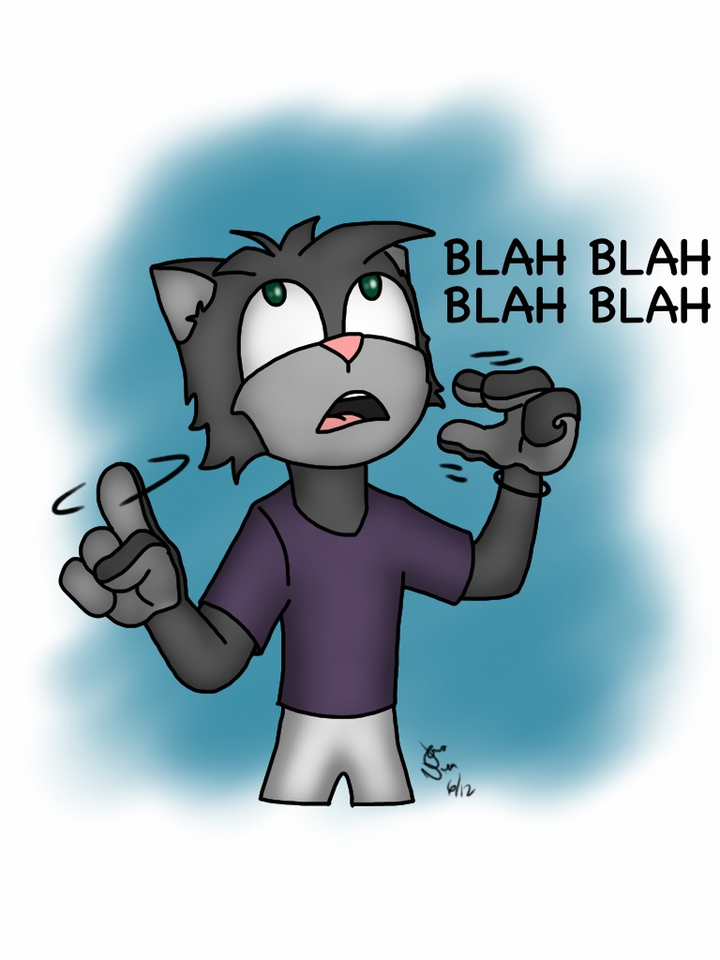
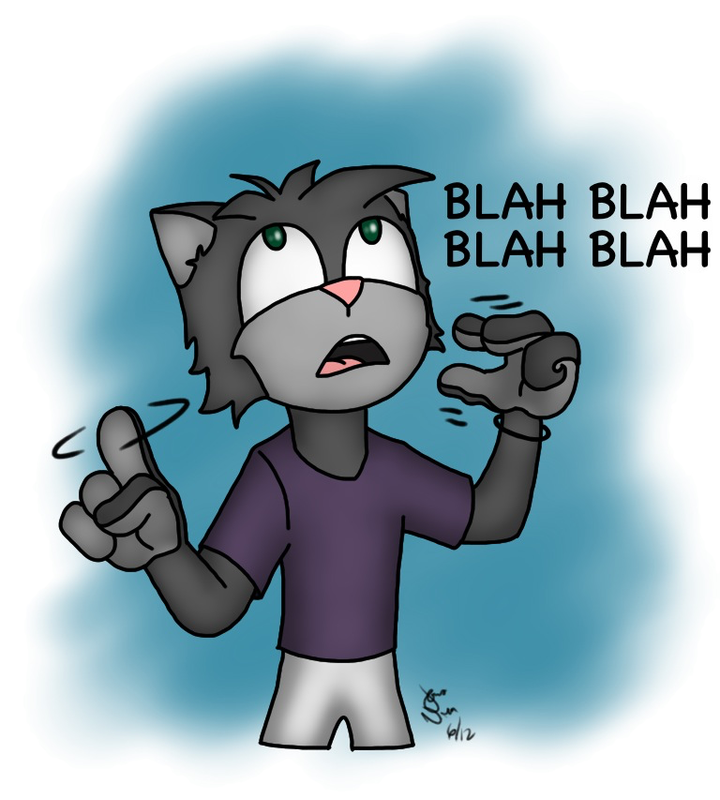
Added League of Weirdos and updated Dave Blah Blah Blah to incorporate some transparency.

diff --git a/index.html b/index.html
@@ -43,7 +43,29 @@ title: Take 37 - Home
 		{% endfor %}
 	</div>
 	<div class="col-md-6">
+		<h2 class="text-center">League of Weirdos</h2>
+		<h3 class="text-center">AKA Those Who Call Us Friend<br><small class="text-lowercase">By Their Own Free will</small></h3>
+		<ul class="list-unstyled">
+			<li><a href="http://www.revelstokejim.com/">Revelstoke Jim</a></li>
+			<li><a href="http://http://johnnywhitetrash.com/">Johnny Whitetrash</a></li>
+			<li><a href="http://www.slscast.com/">The SLS Cast</a></li>
+			<li><a href="http://mayorvsnewb.com/">The Mayor vs The Newb</a></li>
+			<li><a href="http://wanhtpy.blogspot.fi/">We Are Not Here To Please You</a><br></li>
+		</ul>
+		<p>Want to know how you can get put at the bottom of the list?<br>
+		It's simple, just ask a dumb question like below.</p> 
+		
+		<blockquote class="blockquote-reverse">
+			<p>Which part of Star Wars: The Force Awakens would you like to have spoiled most? Act one, two or three?</p>
+			<footer>Rafael of We Are Not Here To Please You</footer>
+		</blockquote>
+		<p>It won't matter in about 40 hours from the time of writing, but, you messed with Ceebs and she's ok with being petty, your move Rafael.<p>
+	</div>
+</div>
+
+<div class="row">
+	<div class="col-md-12">
 		<h2 class="text-center">More<br /><small>Coming Soon</small></h2>
-		<img src="{{ site.baseurl }}/assets/img/BLAH.png" class="img-responsive" alt="Dave doesn't believe us. Blah blah blah." />
+		<img src="{{ site.baseurl }}/assets/img/BLAH.png" class="img-responsive center-block" alt="Dave doesn't believe us. Blah blah blah." />
 	</div>
 </div>
